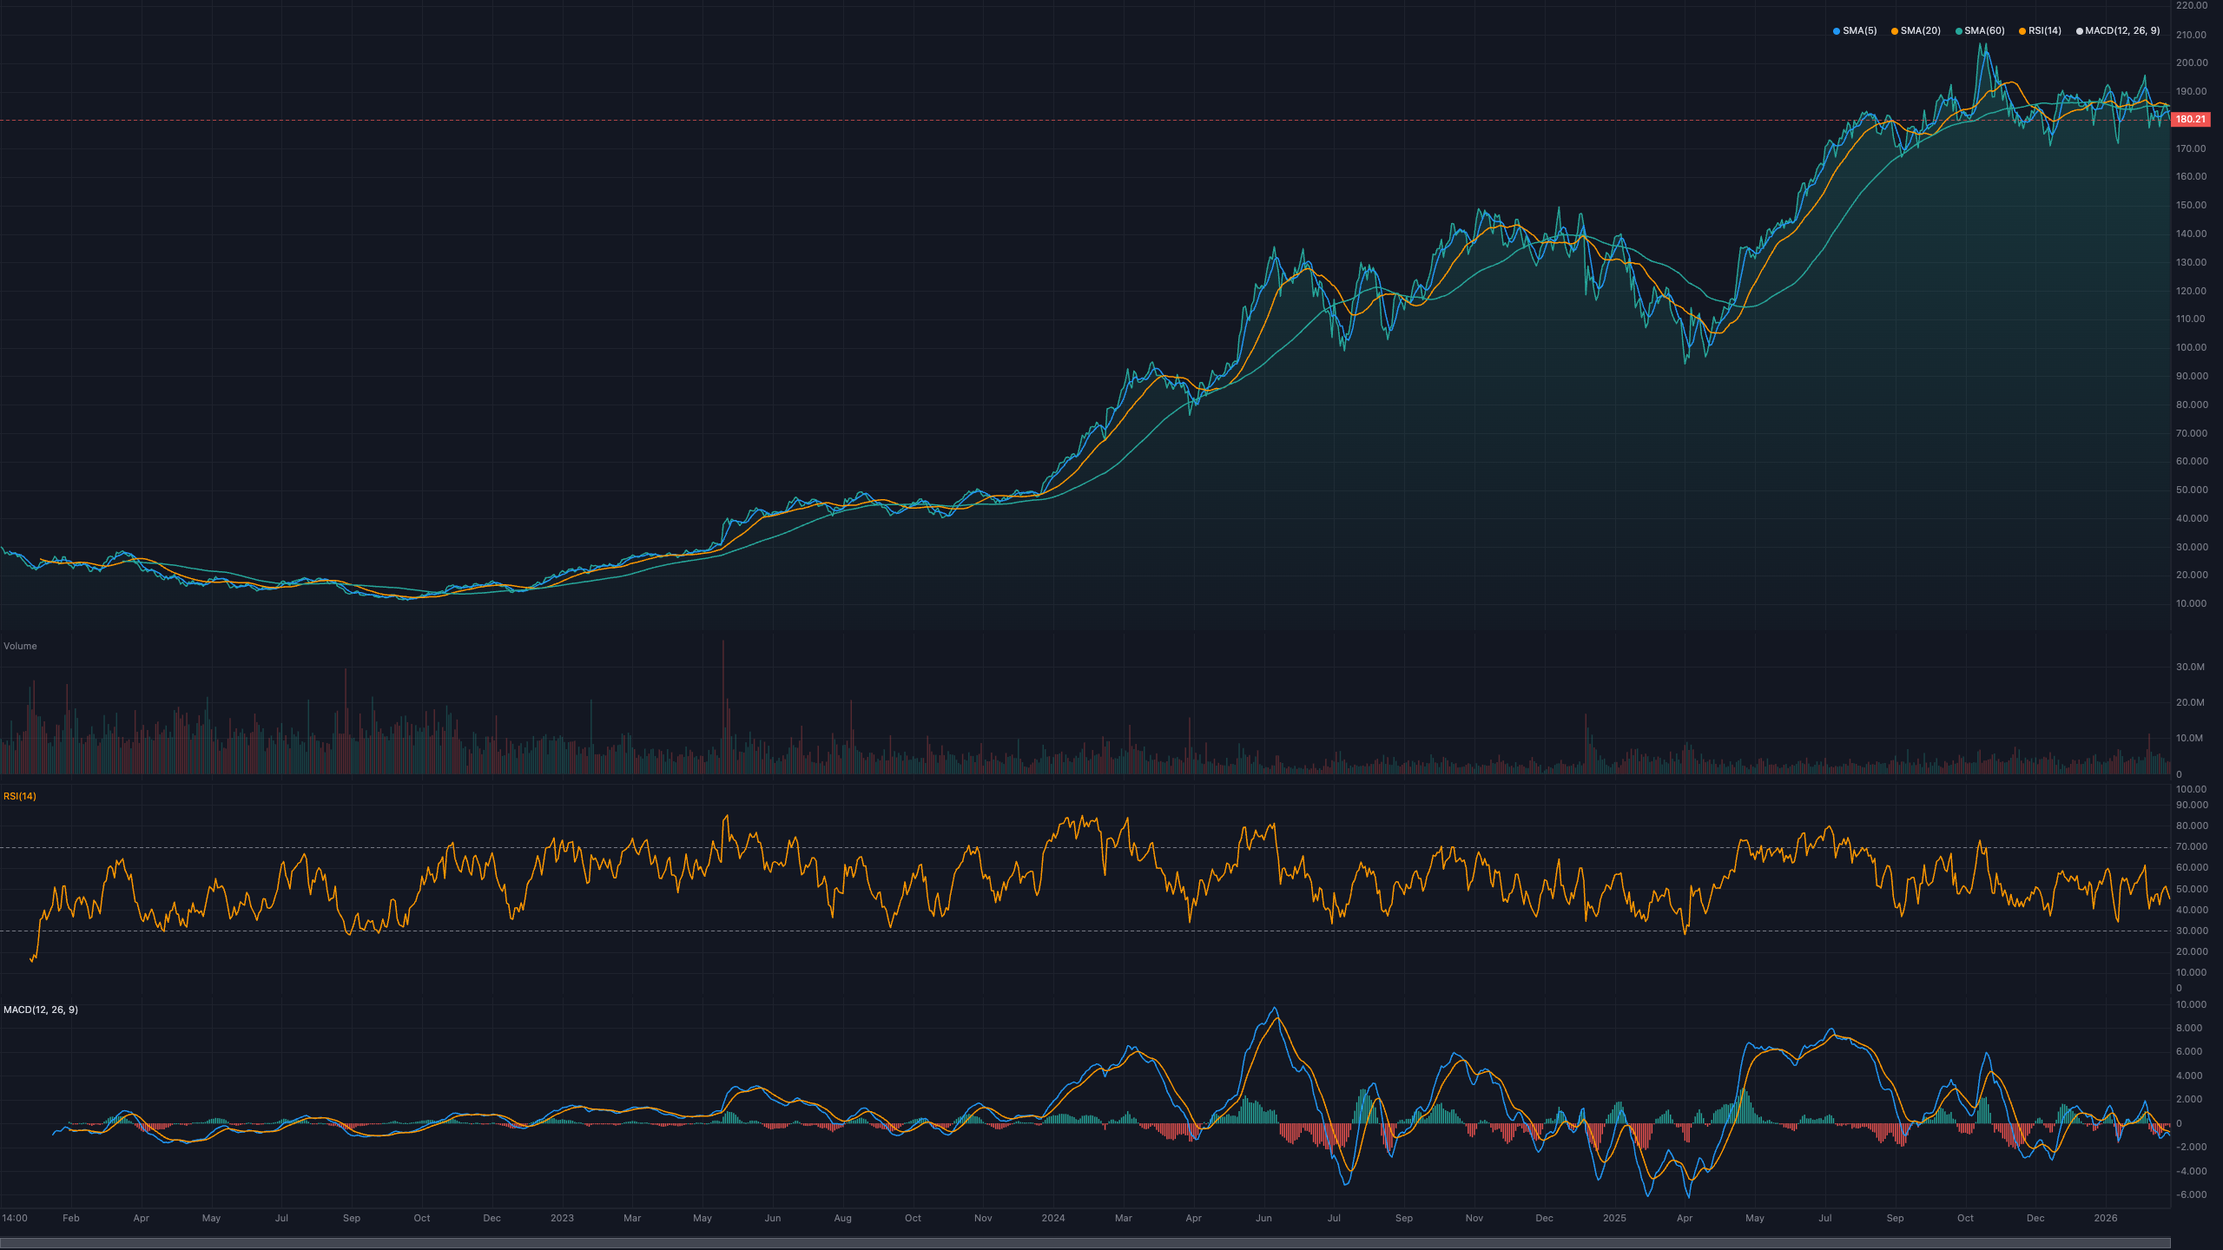
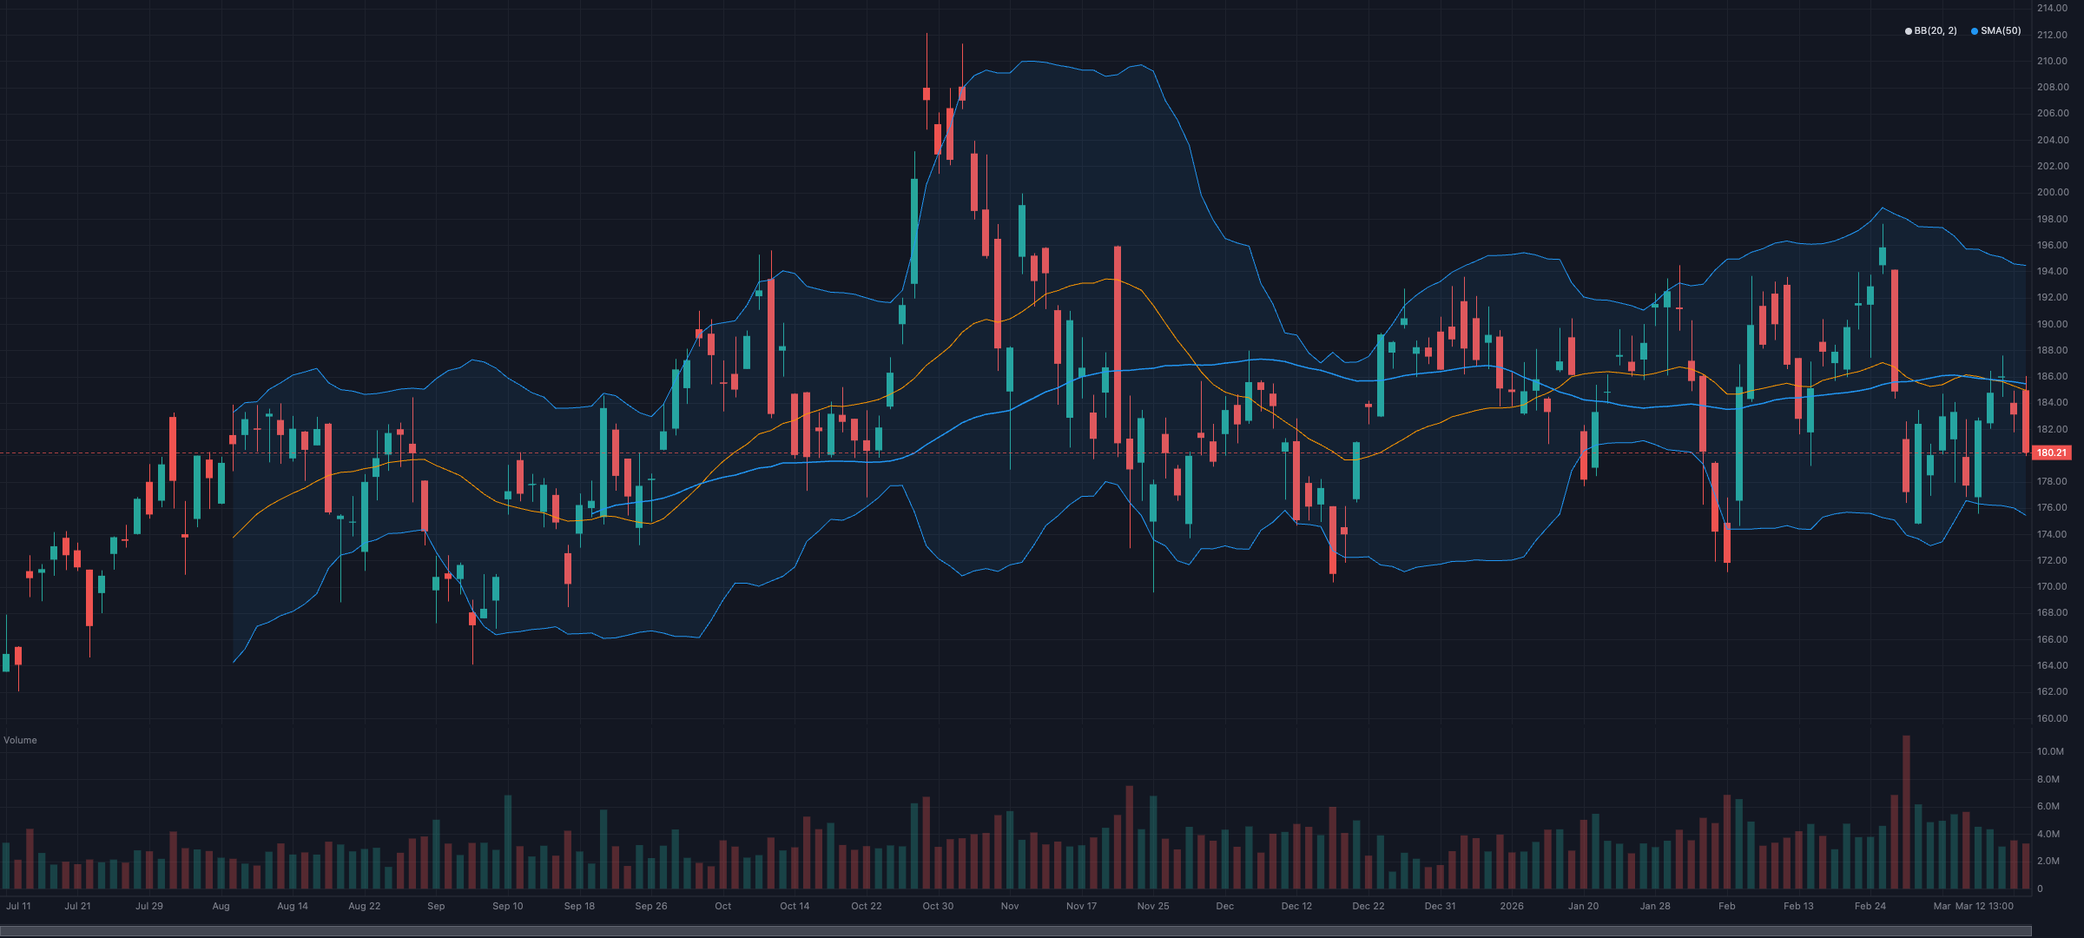
docs(chart): reposition as standalone-first, fix broken links & connectIndicators recipe
- README: lead with zero-dependency standalone value; add badges, absolute
  asset/doc URLs (npm-page links were broken), standalone Quick Start,
  Examples & Stability sections; surface responsive/touch/theming/a11y
- package.json: rewrite description, expand keywords, relax react peer to
  >=18 (wrapper uses only 16.8-era hooks; verified on React 18), add homepage
- COOKBOOK: add standalone (no-trendcraft) Recipe 1; fix Recipe 2 to pass
  `presets: indicatorPresets` and use the canonical `bb` key
- LIVE.md/llms.txt: canonical `bb` key; align positioning & peer/bundle drift
- docs-screenshots: clean candlestick hero (legible window, BB + SMA50)

diff --git a/packages/chart/examples/docs-screenshots/src/scenes/hero.ts b/packages/chart/examples/docs-screenshots/src/scenes/hero.ts
@@ -1,10 +1,11 @@
 /**
- * Hero screenshot — NVDA daily (4y) with a 3-SMA ribbon.
- * Base: mountain — reads better than candles at 1000+ bar density and
- * gives the library a clean, modern first impression.
+ * Hero screenshot — a clean, legible candlestick beauty shot.
  *
- * Indicators are registered via connectIndicators so each SMA gets its
- * own label (SMA(5), SMA(20), SMA(60)) and an auto-cycled color.
+ * Deliberately minimal: a recent ~170-bar window so individual candles read
+ * as candles (not a blur), one Bollinger Bands envelope, and a single SMA(50)
+ * trend line. Volume sits in its own pane by default. The busy multi-pane
+ * indicator story (RSI + MACD + ribbon) lives in the auto-detection scene —
+ * the hero is the first impression, so it stays uncluttered.
  */
 
 import type { CandleData } from "@trendcraft/chart";
@@ -13,23 +14,24 @@ import { registerTrendCraftPresets } from "@trendcraft/chart/presets";
 import { indicatorPresets } from "trendcraft";
 
 export function run(stage: HTMLElement, candles: CandleData[]): void {
+  // Show a recent window so candles are readable at hero width instead of
+  // collapsing into a fuzzy band of 1000+ thin wicks.
+  const recent = candles.slice(-170);
+
   const chart = createChart(stage, {
     theme: "dark",
     animationDuration: 0,
     fontFamily: '"Helvetica Neue", Arial, sans-serif',
-    chartType: "mountain",
+    chartType: "candlestick",
   });
   registerTrendCraftPresets(chart);
-  chart.setCandles(candles);
+  chart.setCandles(recent);
 
-  const conn = connectIndicators(chart, { presets: indicatorPresets, candles });
-  // Core v0.2.0+ emits parameterized labels and the chart auto-cycles colors
-  // across multi-instance presets, so no manual overrides are needed here.
-  conn.add("sma", { period: 5 });
-  conn.add("sma", { period: 20 });
-  conn.add("sma", { period: 60 });
-  conn.add("rsi", { period: 14 });
-  conn.add("macd");
+  const conn = connectIndicators(chart, { presets: indicatorPresets, candles: recent });
+  // One cohesive overlay (band) + one trend line keeps the price pane calm.
+  // Keys are the canonical `indicatorPresets` ids (`bb`, not the `bollingerBands` alias).
+  conn.add("bb");
+  conn.add("sma", { period: 50 });
 
   chart.fitContent();
 }

diff --git a/packages/chart/README.md b/packages/chart/README.md
@@ -1,27 +1,85 @@
 # @trendcraft/chart
 
-A finance-specialized, zero-dependency Canvas charting library with native [TrendCraft](https://github.com/sawapi/trendcraft) `Series<T>` support, framework bindings for React/Vue, and a headless API.
+A zero-dependency Canvas charting library for OHLC / financial data. Works standalone on plain `{ time, value }[]` data; pairs with TrendCraft for zero-config indicators.
 
-![NVDA daily with a 5/20/60 SMA ribbon, RSI, and MACD — rendered with one chart.addIndicator call per indicator](./docs/assets/hero.png)
+[![npm version](https://img.shields.io/npm/v/@trendcraft/chart.svg)](https://www.npmjs.com/package/@trendcraft/chart)
+[![npm downloads](https://img.shields.io/npm/dm/@trendcraft/chart.svg)](https://www.npmjs.com/package/@trendcraft/chart)
+[![minzipped size](https://img.shields.io/bundlephobia/minzip/@trendcraft/chart.svg)](https://bundlephobia.com/package/@trendcraft/chart)
+[![TypeScript types included](https://img.shields.io/npm/types/@trendcraft/chart.svg)](https://www.npmjs.com/package/@trendcraft/chart)
+[![license MIT](https://img.shields.io/npm/l/@trendcraft/chart.svg)](https://github.com/sawapi/trendcraft/blob/main/LICENSE)
 
-Pass TrendCraft indicator output straight to `addIndicator` and the chart figures out pane placement, colors, value ranges, and rendering style from each indicator's own metadata — no manual series decomposition. It works just as well on plain `{ time, value }[]` data, has no runtime dependencies, and ships React/Vue wrappers plus a DOM-free headless build.
+A standalone Canvas charting library built for OHLC and financial data. Hand it plain candle arrays and `{ time, value }[]` series and it renders candlesticks, lines, bands, and sub-panes with no runtime dependencies — no chart framework, no data adapter, no TrendCraft required. It ships React/Vue wrappers and a DOM-free headless build out of the box.
+
+As an optional bonus, when you pair it with [TrendCraft](https://github.com/sawapi/trendcraft), the chart auto-detects each indicator's shape and metadata — figuring out pane placement, colors, value ranges, and render style with zero config. That's a convenience layer on top, not a requirement.
+
+![NVDA daily with a 5/20/60 SMA ribbon, RSI, and MACD — rendered with one chart.addIndicator call per indicator](https://raw.githubusercontent.com/sawapi/trendcraft/main/packages/chart/docs/assets/hero.png)
 
 ## Install
 
 ```bash
-npm install @trendcraft/chart trendcraft
+npm install @trendcraft/chart
 ```
 
-`trendcraft`, `react`, and `vue` are all **optional** peer deps. The chart runs standalone on plain data; `trendcraft@>=0.3.0` unlocks indicator auto-detection and `connectIndicators`, while `react@>=19` / `vue@>=3.3` are only needed for their respective wrappers.
+That's the only required package — the chart runs standalone on plain data with zero runtime dependencies.
+
+```bash
+# Optional, only if you need them:
+npm install trendcraft   # zero-config indicator auto-detection + connectIndicators
+npm install react        # for @trendcraft/chart/react   (React 18+)
+npm install vue          # for @trendcraft/chart/vue      (Vue 3.3+)
+```
+
+`trendcraft`, `react`, and `vue` are all **optional** peer deps and none of them is required to draw a chart. Install only the ones you actually use.
 
 ## Quick start
+
+### Standalone — just `@trendcraft/chart`
+
+No TrendCraft, no other library. Feed it OHLC candles and a plain `{ time, value }[]` series. The container **must have an explicit height** (the canvas fills its parent).
+
+```html
+<div id="chart" style="height:480px"></div>
+```
+
+```typescript
+import { createChart } from '@trendcraft/chart';
+
+// Plain OHLC candles — any source (REST API, CSV, your DB).
+const candles = [
+  { time: 1700000000, open: 100, high: 105, low:  98, close: 104, volume: 1200 },
+  { time: 1700086400, open: 104, high: 108, low: 102, close: 103, volume: 1500 },
+  { time: 1700172800, open: 103, high: 106, low: 100, close: 101, volume:  900 },
+  { time: 1700259200, open: 101, high: 104, low:  99, close: 103, volume: 1100 },
+  { time: 1700345600, open: 103, high: 110, low: 103, close: 109, volume: 2100 },
+  { time: 1700432000, open: 109, high: 112, low: 106, close: 107, volume: 1700 },
+  { time: 1700518400, open: 107, high: 109, low: 104, close: 108, volume: 1300 },
+  { time: 1700604800, open: 108, high: 113, low: 107, close: 112, volume: 1900 },
+];
+
+const container = document.getElementById('chart');
+if (!container) throw new Error('Chart container not found');
+
+const chart = createChart(container, { theme: 'dark' });
+chart.setCandles(candles);
+
+// Any { time, value }[] series renders with a small config — here a simple
+// hand-rolled moving average. No TrendCraft involved.
+const ma = candles.map((c, i, a) => ({
+  time: c.time,
+  value: (a.slice(Math.max(0, i - 2), i + 1).reduce((s, x) => s + x.close, 0))
+    / Math.min(i + 1, 3),
+}));
+
+chart.addIndicator(ma, { pane: 'main', color: '#FF9800', label: 'MA(3)' });
+```
+
+### With TrendCraft — zero-config indicators
+
+If you also install `trendcraft`, pass indicator output straight to `addIndicator` and the chart reads pane placement, colors, y-range, and render style from each indicator's own metadata — no manual series decomposition.
 
 ```typescript
 import { createChart } from '@trendcraft/chart';
 import { sma, rsi, bollingerBands, macd } from 'trendcraft'; // optional peer dep
-
-const container = document.getElementById('chart');
-if (!container) throw new Error('Chart container not found');
 
 const chart = createChart(container, { theme: 'dark' });
 chart.setCandles(candles);
@@ -33,18 +91,21 @@ chart.addIndicator(rsi(candles));                 // sub-pane, 0–100, 30/70 re
 chart.addIndicator(macd(candles));                // sub-pane, histogram + 2 lines
 ```
 
-Without TrendCraft, pass any `{ time, value }[]` series and a small config: `chart.addIndicator(myData, { pane: 'main', color: '#FF9800', label: 'My Line' })`.
-
-![Five indicators auto-placed from their own metadata: SMA and Bollinger Bands on the price pane; RSI, Stochastics, and MACD in sub-panes](./docs/assets/auto-detection.png)
+![Five indicators auto-placed from their own metadata: SMA and Bollinger Bands on the price pane; RSI, Stochastics, and MACD in sub-panes](https://raw.githubusercontent.com/sawapi/trendcraft/main/packages/chart/docs/assets/auto-detection.png)
 
 ## Highlights
 
-- **Auto-detection** — inspects each `Series<T>` shape (number, band, cloud, MACD, stochastic, DMI, SAR…) plus TrendCraft `__meta` to place and style series with zero config.
+- **Works standalone** — renders candlestick / OHLC and plain `{ time, value }[]` series with zero runtime dependencies; no other library required.
 - **Core series types** — candlestick, OHLC, line, mountain price rendering, plus band/fill and Ichimoku cloud overlays.
+- **Responsive / auto-resize** — a built-in `ResizeObserver` keeps the chart sharp as its container resizes; no manual `resize()` wiring.
+- **Touch & pinch-zoom** — mobile-friendly pan and pinch-to-zoom gestures out of the box.
+- **Dark / Light + custom theming** — ships dark and light themes, plus fully customizable colors, fonts, and grid styling.
+- **Accessibility** — ARIA live region for screen-reader updates and full keyboard navigation of the chart.
+- **Drawings & interaction** — trendlines, h-lines, fib retracement/extension, channels, and configurable crosshair magnet modes.
+- **Auto-detection (with TrendCraft)** — inspects each `Series<T>` shape (number, band, cloud, MACD, stochastic, DMI, SAR…) plus TrendCraft `__meta` to place and style series with zero config.
 - **Tree-shakeable plugins** — SMC layer, Wyckoff phases, Volume Profile, Market Profile, regime heatmap, price patterns, S/R confluence, squeeze dots, session zones, Andrews pitchfork, trade analysis.
 - **Indicator connection** — `connectIndicators` for handle-based add/remove/recompute with optional live streaming.
 - **Backtest & analysis** — visualize `BacktestResult` trade markers + equity curve, pattern outlines, and per-bar score heatmaps.
-- **Drawings & interaction** — trendlines, h-lines, fib retracement/extension, channels, configurable crosshair magnet modes, and keyboard navigation.
 - **React & Vue wrappers** — `<TrendChart>` components plus `useTrendChart` hook/composable for imperative access.
 - **Headless API** — DOM-free data layer, scales, layout, and `introspect` for SSR, testing, and custom renderers.
 - **Sparkline & replay subpaths** — compact ~4 kB sparklines and a live-feed replay simulator.
@@ -53,7 +114,7 @@ Without TrendCraft, pass any `{ time, value }[]` series and a small config: `cha
 ## Framework bindings
 
 ```tsx
-// React (>=19)
+// React 18+
 import { TrendChart, useTrendChart } from '@trendcraft/chart/react';
 ```
 
@@ -64,7 +125,18 @@ import { TrendChart, useTrendChart } from '@trendcraft/chart/vue';
 </script>
 ```
 
-Both expose a `<TrendChart>` component (props: `candles`, `indicators`, `signals`, `trades`, `drawings`, `backtest`, `patterns`, `scores`, `theme`, …) and a `useTrendChart` hook/composable that hands you the live `ChartInstance` for drawing tools, live feeds, and plugins. See the [guide](./docs/GUIDE.md) and [cookbook](./docs/COOKBOOK.md) for full examples.
+Both expose a `<TrendChart>` component (props: `candles`, `indicators`, `signals`, `trades`, `drawings`, `backtest`, `patterns`, `scores`, `theme`, …) and a `useTrendChart` hook/composable that hands you the live `ChartInstance` for drawing tools, live feeds, and plugins. See the [guide](https://github.com/sawapi/trendcraft/blob/main/packages/chart/docs/GUIDE.md) and [cookbook](https://github.com/sawapi/trendcraft/blob/main/packages/chart/docs/COOKBOOK.md) for full examples.
+
+## Examples
+
+Runnable example apps live in the repo. Clone it, `pnpm install`, then start any example with `pnpm dev`:
+
+| Example | What it shows | Run |
+|---|---|---|
+| [simple-chart](https://github.com/sawapi/trendcraft/tree/main/packages/chart/examples/simple-chart) | Vanilla TypeScript chart with indicators, drawings, and plugins | `pnpm -C packages/chart/examples/simple-chart dev` |
+| [indicator-showcase](https://github.com/sawapi/trendcraft/tree/main/packages/chart/examples/indicator-showcase) | Multi-indicator catalog (canonical preset / auto-detection setup) | `pnpm -C packages/chart/examples/indicator-showcase dev` |
+| [simple-react-chart](https://github.com/sawapi/trendcraft/tree/main/packages/chart/examples/simple-react-chart) | React wrapper usage | `pnpm -C packages/chart/examples/simple-react-chart dev` |
+| [simple-vue-chart](https://github.com/sawapi/trendcraft/tree/main/packages/chart/examples/simple-vue-chart) | Vue wrapper usage | `pnpm -C packages/chart/examples/simple-vue-chart dev` |
 
 ## Subpath entry points
 
@@ -82,13 +154,17 @@ Both expose a `<TrendChart>` component (props: `candles`, `indicators`, `signals
 
 | Doc | Use it when |
 |---|---|
-| [GUIDE](./docs/GUIDE.md) | You want the mental model — data model, coordinate system, render loop, theming, viewport, SSR, accessibility |
-| [API](./docs/API.md) | You need the full reference — every option, method, type, and event |
-| [COOKBOOK](./docs/COOKBOOK.md) | You want copy-paste recipes — minimal chart, theming, live data, React/Vue, sparklines, PNG export, headless |
-| [PLUGINS](./docs/PLUGINS.md) | You're writing a custom series renderer or pane primitive |
-| [LIVE](./docs/LIVE.md) | You're wiring a real-time feed — WebSocket → `createLiveCandle` → chart |
+| [GUIDE](https://github.com/sawapi/trendcraft/blob/main/packages/chart/docs/GUIDE.md) | You want the mental model — data model, coordinate system, render loop, theming, viewport, SSR, accessibility |
+| [API](https://github.com/sawapi/trendcraft/blob/main/packages/chart/docs/API.md) | You need the full reference — every option, method, type, and event |
+| [COOKBOOK](https://github.com/sawapi/trendcraft/blob/main/packages/chart/docs/COOKBOOK.md) | You want copy-paste recipes — minimal chart, theming, live data, React/Vue, sparklines, PNG export, headless |
+| [PLUGINS](https://github.com/sawapi/trendcraft/blob/main/packages/chart/docs/PLUGINS.md) | You're writing a custom series renderer or pane primitive |
+| [LIVE](https://github.com/sawapi/trendcraft/blob/main/packages/chart/docs/LIVE.md) | You're wiring a real-time feed — WebSocket → `createLiveCandle` → chart |
 
-Also published: [`CHANGELOG.md`](./CHANGELOG.md), and machine-readable [`llms.txt`](./llms.txt) / [`llms-full.txt`](./llms-full.txt).
+Also published: [`CHANGELOG.md`](https://github.com/sawapi/trendcraft/blob/main/packages/chart/CHANGELOG.md), and machine-readable [`llms.txt`](./llms.txt) / [`llms-full.txt`](./llms-full.txt).
+
+## Stability
+
+Pre-1.0 (0.x): the API may change between minor versions; see the [CHANGELOG](https://github.com/sawapi/trendcraft/blob/main/packages/chart/CHANGELOG.md). Every breaking change ships with an explicit Breaking / Migration note so upgrades are deliberate, not surprising.
 
 ## Disclaimer
 

diff --git a/packages/chart/docs/COOKBOOK.md b/packages/chart/docs/COOKBOOK.md
@@ -4,9 +4,45 @@ Practical recipes for common charting tasks. Each recipe is self-contained and c
 
 ---
 
-## Recipe 1: Minimal candlestick chart
+## Recipe 1: Standalone candlestick chart (no dependencies)
 
-**Goal:** A chart with one indicator, no framework wrapper.
+**Goal:** A chart on plain OHLC data with one indicator, importing only from `@trendcraft/chart` — no `trendcraft` package required.
+
+```typescript
+import { createChart } from "@trendcraft/chart";
+
+const container = document.getElementById("chart") as HTMLElement;
+const chart = createChart(container, { theme: "dark" });
+
+// Plain OHLC candle literals — any source works.
+const candles = [
+  { time: 1717200000, open: 100, high: 104, low: 99, close: 103, volume: 1200 },
+  { time: 1717286400, open: 103, high: 106, low: 102, close: 105, volume: 1500 },
+  { time: 1717372800, open: 105, high: 105, low: 101, close: 102, volume: 1100 },
+  { time: 1717459200, open: 102, high: 108, low: 102, close: 107, volume: 1800 },
+  { time: 1717545600, open: 107, high: 110, low: 106, close: 109, volume: 2000 },
+];
+
+chart.setCandles(candles);
+
+// Add a plain { time, value }[] series as an indicator — no trendcraft needed.
+const movingAvg = [
+  { time: 1717372800, value: 103.5 },
+  { time: 1717459200, value: 104.8 },
+  { time: 1717545600, value: 106.0 },
+];
+chart.addIndicator(movingAvg, { pane: "main", color: "#3b82f6", label: "MA(3)" });
+```
+
+The container needs an explicit height: `createChart` defaults to height 400 and takes its width from `clientWidth`, so a zero-height container renders blank — set e.g. `#chart { height: 400px }` in CSS.
+
+The series here is detected purely by its `{ time, value }[]` key shape, so any data source renders. When you do pair with TrendCraft, indicator output also carries placement metadata — see Recipe 1b.
+
+---
+
+## Recipe 1b: Minimal candlestick chart with a TrendCraft indicator
+
+**Goal:** The same chart, but letting a TrendCraft indicator auto-place itself.
 
 ```typescript
 import { createChart } from "@trendcraft/chart";
@@ -30,13 +66,16 @@ chart.addIndicator(sma(candles, { period: 20 }));
 ```typescript
 import { connectIndicators, createChart } from "@trendcraft/chart";
 import { registerTrendCraftPresets } from "@trendcraft/chart/presets";
+import { indicatorPresets } from "trendcraft";
 
 const chart = createChart(container);
 registerTrendCraftPresets(chart);
 
-const conn = connectIndicators(chart, { candles });
+// `presets` is the indicator compute registry — required for `conn.add(...)`.
+// `registerTrendCraftPresets` only wires up rendering, not the math.
+const conn = connectIndicators(chart, { presets: indicatorPresets, candles });
 conn.add("sma", { period: 20 });
-conn.add("bollingerBands");
+conn.add("bb"); // Bollinger Bands — the `indicatorPresets` key is "bb"
 conn.add("rsi");
 conn.add("macd");
 ```
@@ -168,7 +207,7 @@ const conn = connectIndicators(chart, {
   live,
 });
 conn.add("rsi");
-conn.add("bollingerBands");
+conn.add("bb"); // Bollinger Bands
 
 ws.on("trade", (t) => {
   live.addTick({ time: t.ts, price: t.px, volume: t.size });
@@ -188,7 +227,7 @@ See [LIVE.md](./LIVE.md) for backfill, reconnect, and pre-formed candle inputs.
 
 ## Recipe 9: React
 
-**Goal:** A reactive chart in React 19+.
+**Goal:** A reactive chart in React 18+.
 
 ```tsx
 import { TrendChart } from "@trendcraft/chart/react";

diff --git a/packages/chart/docs/LIVE.md b/packages/chart/docs/LIVE.md
@@ -81,7 +81,7 @@ const conn = connectIndicators(chart, {
 });
 conn.add('rsi');
 conn.add('sma', { period: 20 });
-conn.add('bollingerBands');
+conn.add('bb'); // Bollinger Bands — the `indicatorPresets` key is "bb"
 
 // Wire your WebSocket
 ws.on('trade', (t) => {
